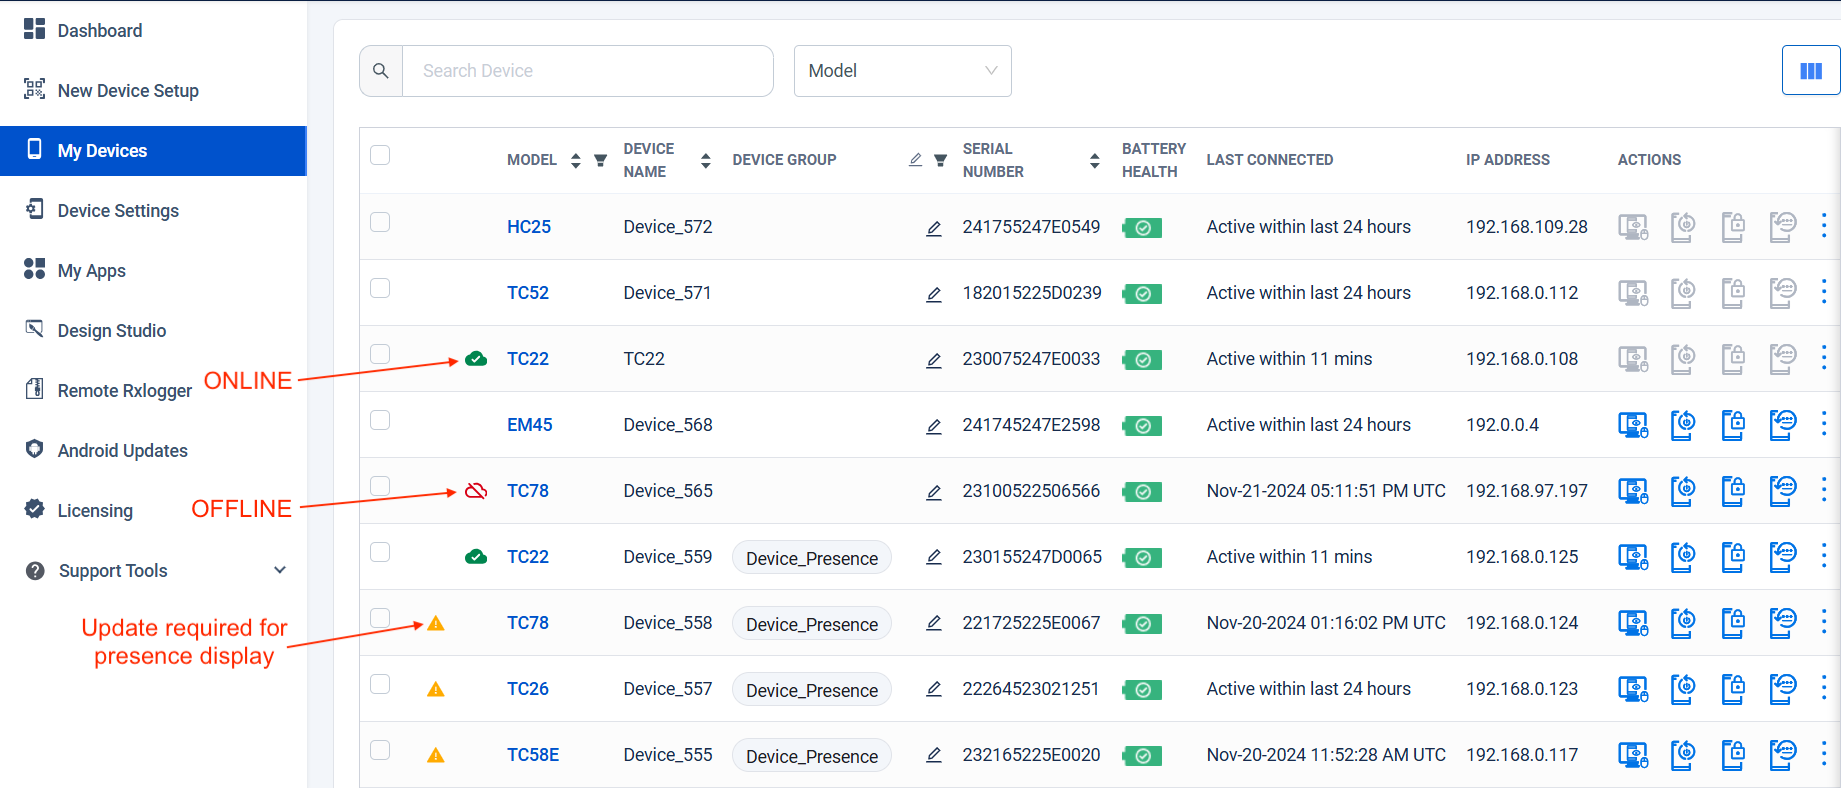
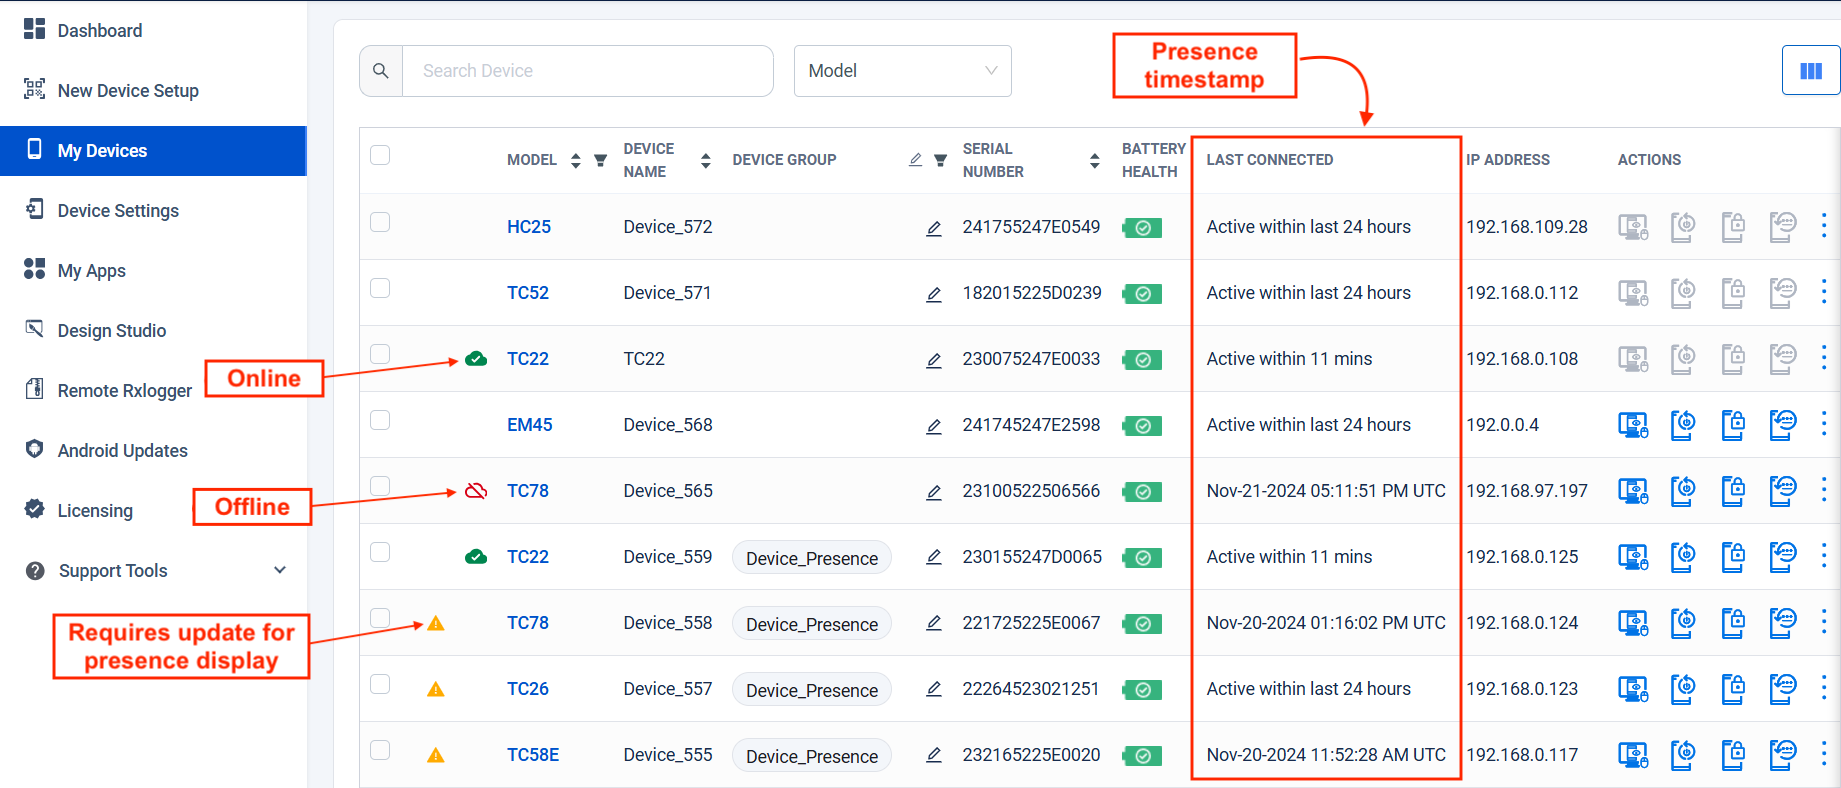
[TUT-105436] ZDNA 5.0 updates, per eng

diff --git a/zebradna/5-0/usage/index.html b/zebradna/5-0/usage/index.html
@@ -324,19 +324,21 @@
 <h4 id="updatedevery24hours" class="anchor"><a class="heading-anchor" href="#updatedevery24hours"><span></span></a>Updated Every 24 Hours:</h4>
 
 <ul>
-<li><strong>Device Name</strong></li>
+<li><strong>Device name on device</strong> (changes to device names appear in the console a few minutes after the change)</li>
 
-<li><strong>Android Version</strong></li>
-
-<li><strong>Installed apps and versions</strong></li>
+<li><strong>Android version</strong></li>
 
 <li><strong>Battery information</strong></li>
 </ul>
 
+<!-- removed per eng DLM-44154 
+* **Installed apps and versions**
+ -->
+
 <h4 id="updatedevery1011minutes" class="anchor"><a class="heading-anchor" href="#updatedevery1011minutes"><span></span></a>Updated Every 10-11 Minutes:</h4>
 
 <ul>
-<li><strong>Device Presence</strong> (see Presence Usage Notes, below)</li>
+<li><strong>Device Presence</strong>** (see Presence Usage Notes, below)</li>
 
 <li><strong>"Last Connected"</strong> status</li>
 </ul>
@@ -353,38 +355,44 @@
 
 <h4 id="presenceusagenotes" class="anchor"><a class="heading-anchor" href="#presenceusagenotes"><span></span></a>Presence Usage Notes</h4>
 
-DNA Cloud 5.0 (and later) displays presence (online/offline) information for <u><b>ZDNA-managed GMS devices</b></u> that contain the latest ZDNA client app. Presence reporting is subject to the rules and behaviors below. 
-<!-- 
-<img alt="image" style="height:350px" src="50_presence.png"/>
-_Click image to enlarge; ESC to exit_.
-<br>
- -->
+<p>DNA Cloud 5.0 (and later) displays presence information** for <u><b>ZDNA-managed GMS devices<i>‡</i></b></u> that contain the latest ZDNA client app. Presence reporting is subject to the rules and behaviors below. </p>
 
 <ul>
-<li>Presence information displayed for ZDNA-managed GMS devices only.</li>
+<li><strong>Presence information is displayed for ZDNA-managed GMS<i>‡</i> devices only</strong>.</li>
 
-<li>Newly enrolled devices display presence icon immediately.<i>†</i> </li>
+<li><strong>Devices enrolled <em>before</em> the <a href="../setup/#iconfigurenetwork">required network changes</a></strong> display presence info after 24 hours; perform “Update zDNA client” action to display immediately. </li>
 
-<li>Currently enrolled devices display presence after performing “Update zDNA client” action.<i>†</i> </li>
+<li><strong>After network settings are updated</strong>: 
 
-<li>Devices with an out-of-date ZDNA client (indicated by <i class="fa fa-exclamation-triangle" style="color:#FFA500;"></i>) must be updated to the latest version for presence display.</li>
 
-<li>Presence for devices running an unsupported/outdated OS is displayed only after device is updated to the latest OS (see “Android Updates”) and ZDNA client.</li>
+<ul>
+<li><strong>Newly enrolled devices</strong> display presence information immediately.<i>†</i> </li>
+
+<li><strong>Currently enrolled devices</strong> display presence immediately <strong>only <em>after</em> performing “Update zDNA client” action</strong>.<i>†</i> </li>
+
+<li><strong>Devices with an out-of-date ZDNA client</strong> (indicated by <i class="fa fa-exclamation-triangle" style="color:#FFA500;"></i>) must be updated to the latest version for presence display.</li>
+
+<li><strong>Presence info for devices running an unsupported/outdated OS</strong> is displayed only after device is updated to the latest OS (see “Android Updates”) and ZDNA client.</li></ul>
+</li>
+
+<li><strong>Presence status changes</strong>...
+
+
+<ul>
+<li>...<strong>from offline to online</strong> appear immediately.</li>
+
+<li>...<strong>from online to offline</strong> appear after about 10 minutes along with an updated "Last Connected" timestamp (see image below).</li></ul>
+</li>
 </ul>
 
-<!-- 
-
-- For newly enrolled ZDNA devices the Online and Offline status icon will display instantly and the “Last Connected” status will display as " Active within 11 mins". 
-- Users can now see the Online and Offline status icon for existing enrolled ZDNA devices after performing “Update zDNA client” action for the device(s). The “Last Connected” status will update as " Active within 11 mins". 
-- Any device whose “DNA client” (yellow triangle) is out of date would need to update to the latest client to see the Online and Offline status. 
-- The Online and Offline status icon for existing and newly added devices on unsupported OS will display only after device is updated to the latest OS from Android Updates and then “Update zDNA client” action is performed.  
-- User will see the Online and Offline icon for devices enrolled by other EMMs
-- The Online and Offline status is supported for ASOP Devices - WS50 (Non GMS)
-
- -->
+<p><img alt="image" style="height:350px" src="50_presence.png">
+<em>Click image to enlarge; ESC to exit</em>.
+<br></p>
 
 <p><i><font size="2" color="DimGrey"> * Some management features are available without a device license.</font></i><br>
-<i><font size="2" color="DimGrey"> † “Last Connected” status is displayed after about 10 minutes.</font></i></p>
+<i><font size="2" color="DimGrey"> † “Last Connected” status is displayed after about 10 minutes.</font></i><br>
+<i><font size="2" color="DimGrey"> ‡ Also supports the Zebra WS50, a non-GMS device. </font></i><br>
+<i><font size="2" color="DimGrey"> ** <i class="fa fa-exclamation-triangle" style="color:#FFA500;"></i> <b>Presence information requires an update to <a href="../setup/#iconfigurenetwork">network settings</a></b>. </font></i><br></p>
 
 <hr>
 

diff --git a/zebradna/5-0/setup/index.html b/zebradna/5-0/setup/index.html
@@ -377,11 +377,20 @@
 
 <li><code>*.cloudfunctions.net</code> †</li>
 
-<li><code>*.firebaseapp.com</code> †</li></ul>
+<li><code>*.firebaseapp.com</code> †</li>
+
+<li><strong>NEW&gt;&gt;</strong> <code>ts.dnac.zebra.com</code> <i>‡</i></li></ul>
 </li>
 </ul>
 
-<p>† <em><strong>The asterisk character (*) indicates a wildcard, which accepts any value for a particular section of a port assignment. If wildcards are NOT supported by the system (or are otherwise prohibited by the organization), please contact <a href="https://www.zebra.com/us/en/about-zebra/contact-zebra/contact-tech-support.html">Zebra Support</a> for special instructions</strong></em>. </p>
+<p>† <i><font size="2" color="DimGrey"> The asterisk character (*) indicates a wildcard, which accepts any value for a particular section of a port assignment. If wildcards are NOT supported by the system (or are otherwise prohibited by the organization), please contact <a href="https://www.zebra.com/us/en/about-zebra/contact-zebra/contact-tech-support.html">Zebra Support</a> for special instructions. </font></i>
+<br>
+<i>‡</i> <i><font size="2" color="DimGrey"> Added with ZDNA 5.0; required for display of device presence information. </font></i> </p>
+
+<!-- 12/9/24- changed to std footnote style with 2nd 
+&#8224; _**The asterisk character (&#42;) indicates a wildcard, which accepts any value for a particular section of a port assignment. If wildcards are NOT supported by the system (or are otherwise prohibited by the organization), please contact [Zebra Support](https://www.zebra.com/us/en/about-zebra/contact-zebra/contact-tech-support.html) for special instructions**_. 
+
+ -->
 
 <!-- 5/28/24, TUT-97897  `dnacloud.zebra.com` replaced with `*dnacloud.zebra.com` per eng.
 

diff --git a/zebradna/5-0/faq/index.html b/zebradna/5-0/faq/index.html
@@ -255,6 +255,12 @@
 
 <hr>
 
+<h3 id="whyisntpresenceinformationbeingdisplayedformydevices" class="anchor"><a class="heading-anchor" href="#whyisntpresenceinformationbeingdisplayedformydevices"><span></span></a>Why isn't presence information being displayed for my devices?</h3>
+
+<p><strong>Presence information requires an update to <a href="../setup/#iconfigurenetwork">network settings</a></strong>. After this change is made, device presence information is displayed in the ZDNA console according to the rules and behaviors listed under <a href="../usage/#mydevices">Presence Usage Notes</a> in the My Devices section of the <a href="../usage">Usage Guide</a>.</p>
+
+<hr>
+
 <h3 id="istheremoreinformationaboutformattingthehostinglocationfieldforremoterxlogger" class="anchor"><a class="heading-anchor" href="#istheremoreinformationaboutformattingthehostinglocationfieldforremoterxlogger"><span></span></a>Is there more information about formatting the Hosting Location field for Remote RxLogger?</h3>
 
 <p>For more detailed instructions about formatting the Hosting Location field, <strong>see <a href="https://supportcommunity.zebra.com/s/article/000030850?language=en_US">How to format an FTP/S server URL</a></strong> <i class="fa fa-external-link" style="color:#3498DB;"></i>, an article posted by the Zebra Tech Support team.</p>

diff --git a/zebradna/5-0/about/index.html b/zebradna/5-0/about/index.html
@@ -257,13 +257,15 @@
 <h2 id="newinzdna50" class="anchor"><a class="heading-anchor" href="#newinzdna50"><span></span></a>New in ZDNA 5.0</h2>
 
 <ul>
-<li><strong>Displays presence information</strong> on <a href="../usage/#mydevices">My Devices page</a> for ZDNA-managed GMS<i>*</i> devices:
+<li><strong>Displays presence information</strong><i>†</i> on <a href="../usage/#mydevices">My Devices page</a> for ZDNA-managed GMS<i>*</i> devices:
 <img alt="image" style="height:250px" src="50_presence.png">
 <em>In addition to device presence, also dispays datestamp for last connection</em>.<br>
 <em>Click image to enlarge; ESC to exit</em>.</li>
 </ul>
 
-<p><i><font size="2" color="DimGrey"> * Also supports the Zebra WS50, a non-GMS device. </font></i> </p>
+<p><i><font size="2" color="DimGrey"> † Presence information requires an update to <a href="../setup/#iconfigurenetwork">network settings</a>. </font></i>
+<br> 
+<i><font size="2" color="DimGrey"> * Also supports the Zebra WS50, a non-GMS device. </font></i><br></p>
 
 <!-- 
 11/25 removed from RN
